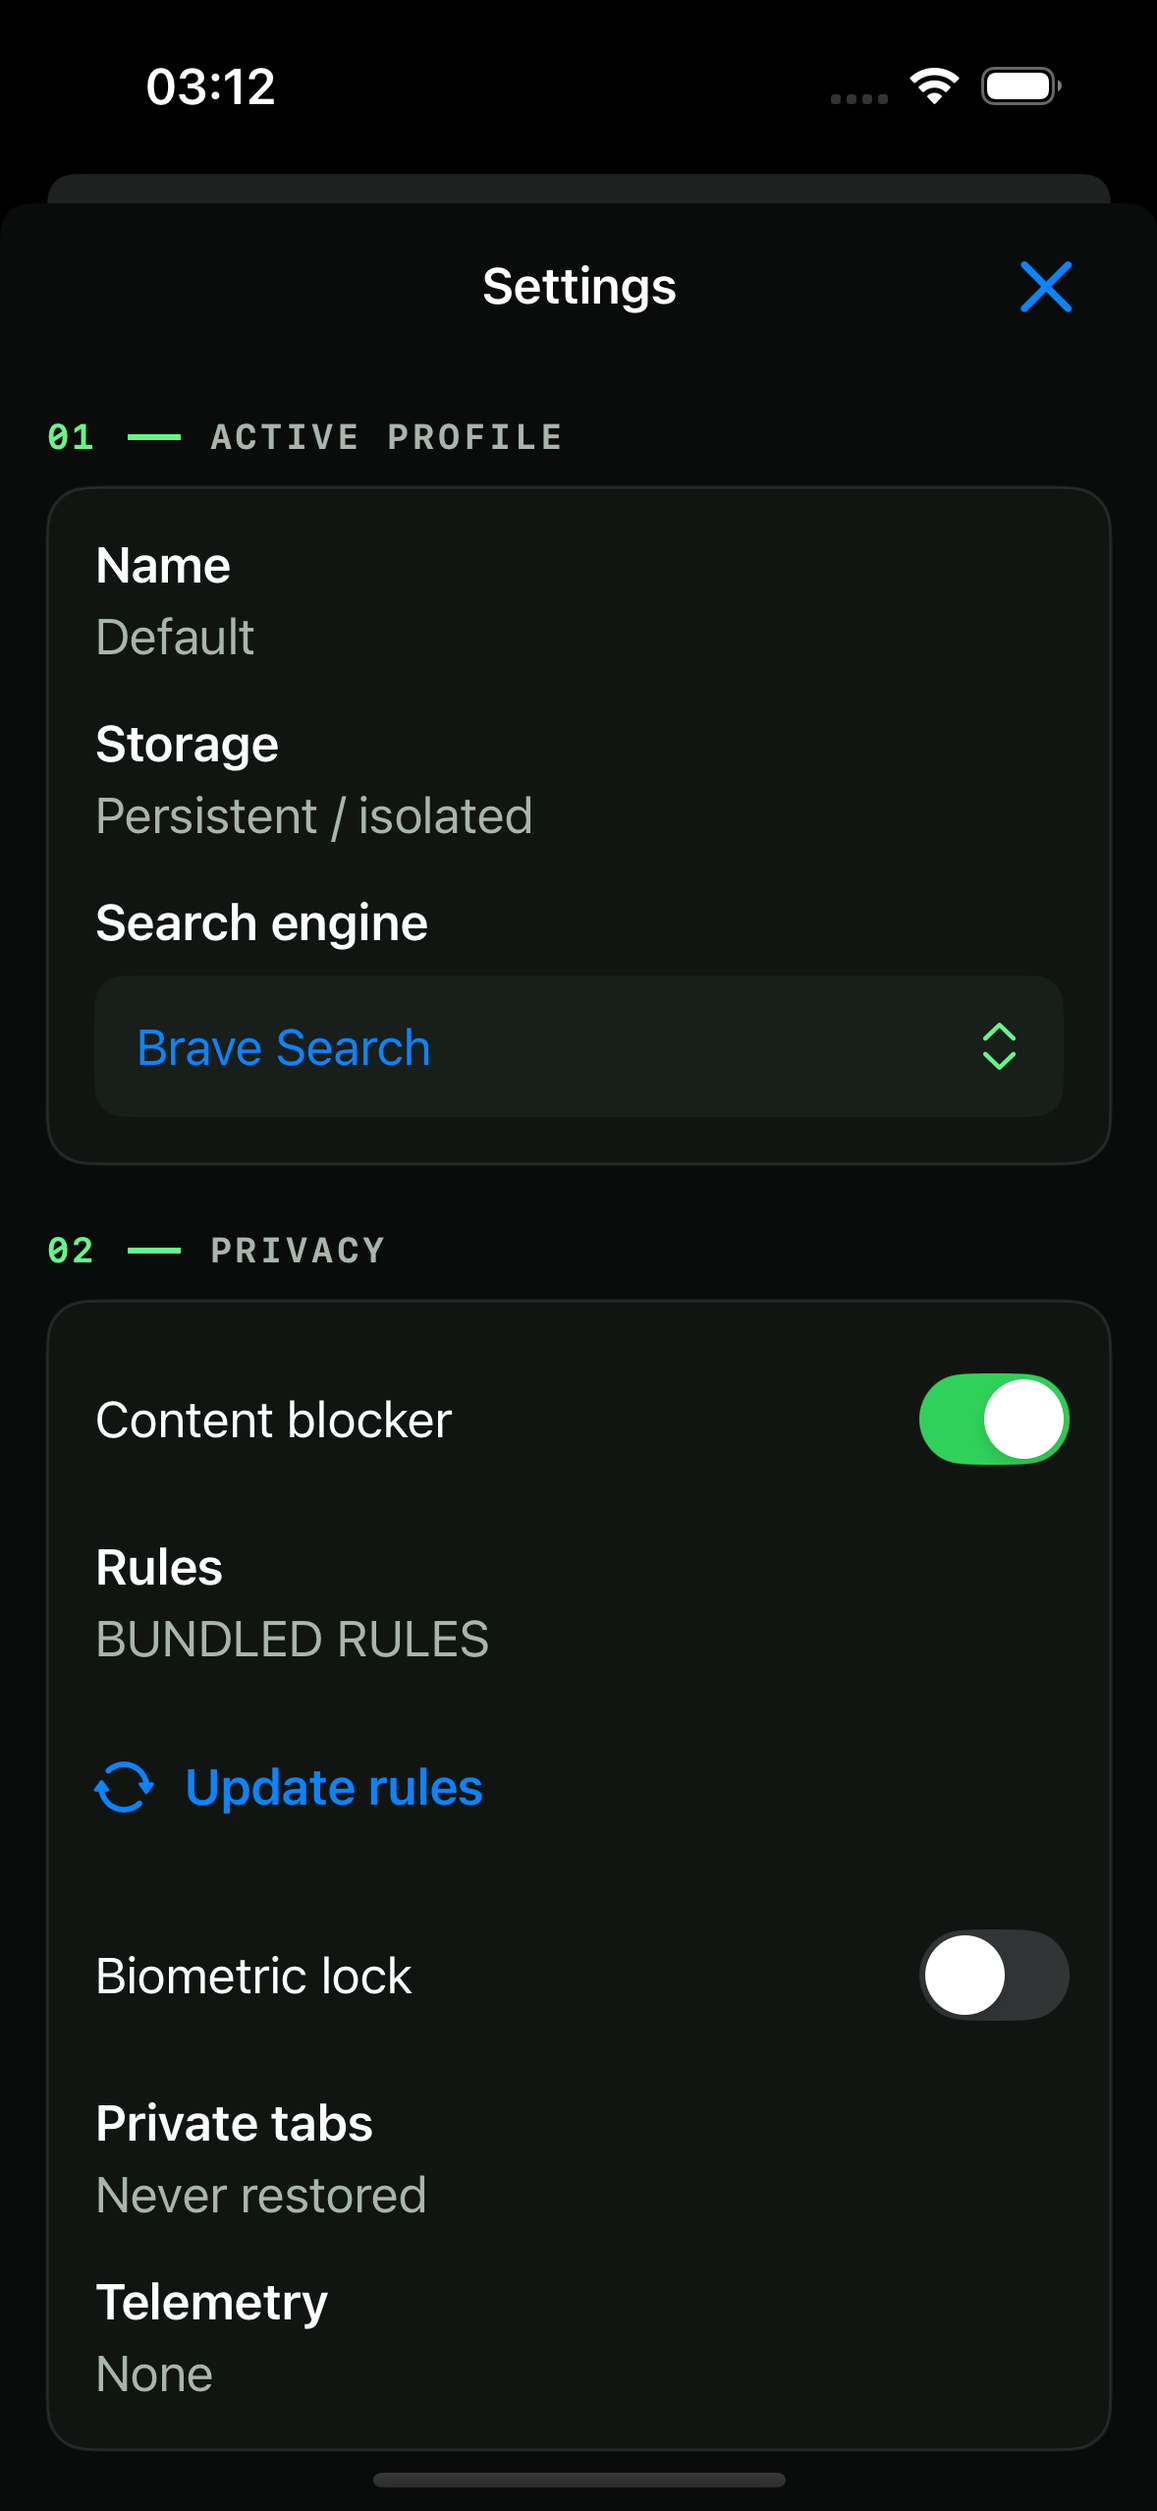
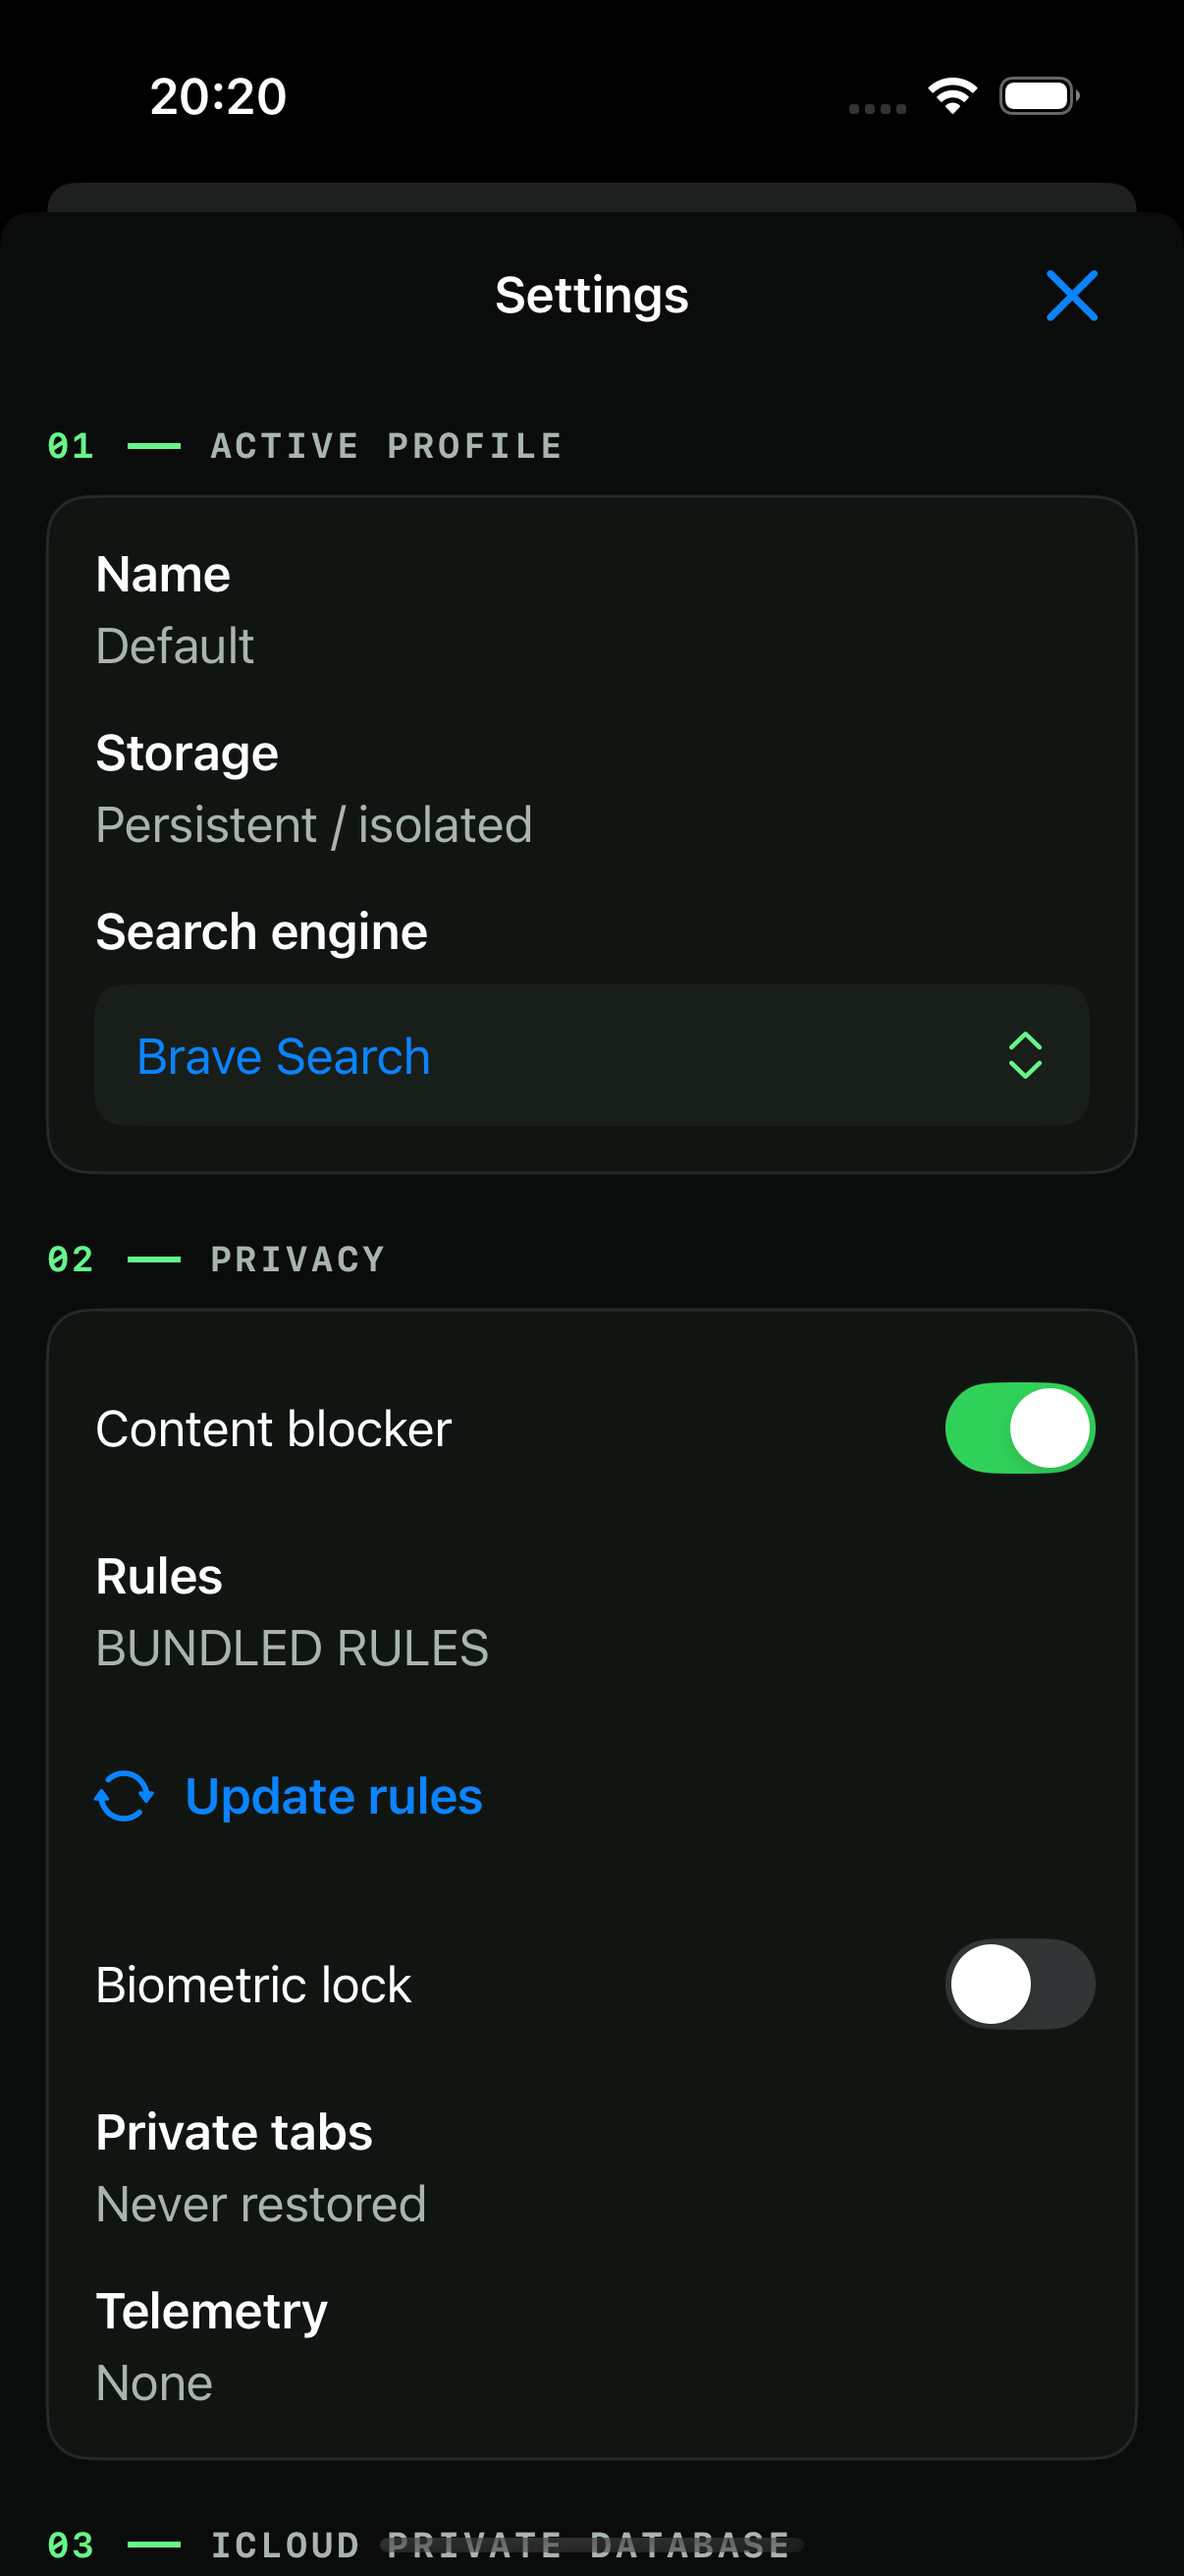
Refresh Simulator media and Pages gallery

diff --git a/docs/index.html b/docs/index.html
@@ -8,12 +8,13 @@
   <link rel="stylesheet" href="fireball.css">
 </head>
 <body>
+  <a class="skip-link" href="#content">Skip to content</a>
   <div class="shell">
     <nav aria-label="Primary">
       <a class="brand" href="index.html">Fireball Browser</a>
       <div class="nav-links"><a href="privacy.html">Privacy</a><a href="support.html">Support</a></div>
     </nav>
-    <main>
+    <main id="content">
       <div class="eyebrow">Native WebKit · iOS and iPadOS 18+</div>
       <h1>Browse in your own spaces.</h1>
       <p class="lede">Fireball is a native browser shell that keeps profiles separate, makes private tabs temporary, and collects no product telemetry.</p>
@@ -22,6 +23,20 @@
         <div class="card"><strong>Private by design</strong><span>Private spaces are nonpersistent and disappear instead of joining session restore.</span></div>
         <div class="card"><strong>Signed blocker data</strong><span>Rule updates are verified and compiled before replacing the last-known-good set.</span></div>
       </div>
+      <section class="showcase" aria-labelledby="showcase-title">
+        <div class="eyebrow">Built and captured on Simulator</div>
+        <h2 id="showcase-title">One shell, two form factors.</h2>
+        <p>The images below come from the opt-in XCTest documentation flow on iOS 18.6, not from hand-authored device mockups.</p>
+        <div class="screens phone-screens">
+          <figure><img loading="lazy" src="assets/fireball-iphone-home.png" alt="Fireball native home on iPhone"><figcaption>Native home</figcaption></figure>
+          <figure><img loading="lazy" src="assets/fireball-iphone-tabs.png" alt="Fireball tab grid on iPhone"><figcaption>Tab grid</figcaption></figure>
+          <figure><img loading="lazy" src="assets/fireball-iphone-settings.png" alt="Fireball privacy settings on iPhone"><figcaption>Profile privacy</figcaption></figure>
+        </div>
+        <div class="screens ipad-screens">
+          <figure><img loading="lazy" src="assets/fireball-ipad-tabs.png" alt="Fireball adaptive tab grid with spaces sidebar on iPad"><figcaption>Adaptive iPad tab grid</figcaption></figure>
+          <figure><img loading="lazy" src="assets/fireball-ipad-settings.png" alt="Fireball settings sheet on iPad"><figcaption>Settings sheet</figcaption></figure>
+        </div>
+      </section>
     </main>
     <footer>Fireball Browser beta information · <a href="privacy.html">Privacy policy</a> · <a href="support.html">Support</a></footer>
   </div>

diff --git a/docs/fireball.css b/docs/fireball.css
@@ -20,6 +20,9 @@ body {
   line-height: 1.65;
 }
 a { color: var(--green); }
+.skip-link { position: fixed; top: 0.75rem; left: 0.75rem; z-index: 10; padding: 0.6rem 0.85rem; border-radius: 8px; background: var(--green); color: var(--background); transform: translateY(-180%); }
+.skip-link:focus { transform: translateY(0); }
+a:focus-visible { outline: 3px solid var(--orange); outline-offset: 4px; }
 .shell { width: min(960px, calc(100% - 2rem)); margin: 0 auto; }
 nav {
   display: flex;
@@ -37,6 +40,7 @@ nav {
 .eyebrow { color: var(--orange); }
 .nav-links { display: flex; gap: 1.25rem; }
 .nav-links a { color: var(--muted); text-decoration: none; }
+.nav-links a:hover { color: var(--ink); }
 main { padding: 6rem 0; }
 h1 { max-width: 13ch; margin: 1rem 0; font-size: clamp(3rem, 9vw, 6.6rem); line-height: 0.94; letter-spacing: -0.065em; }
 h2 { margin-top: 3rem; font-size: 1.55rem; letter-spacing: -0.025em; }
@@ -51,10 +55,19 @@ p, li { max-width: 70ch; color: var(--muted); }
 .callout { margin: 2rem 0; border-left: 3px solid var(--green); }
 .grid { display: grid; grid-template-columns: repeat(3, 1fr); gap: 1rem; margin-top: 3rem; }
 .card strong { display: block; margin-bottom: 0.5rem; color: var(--ink); }
+.showcase { margin-top: 7rem; }
+.showcase h2 { max-width: 14ch; margin: 0.8rem 0 1rem; font-size: clamp(2.4rem, 6vw, 4.6rem); line-height: 0.98; }
+.screens { display: grid; gap: 1rem; margin-top: 2rem; }
+.phone-screens { grid-template-columns: repeat(3, 1fr); }
+.ipad-screens { grid-template-columns: repeat(2, 1fr); }
+figure { margin: 0; padding: 0.75rem; border: 1px solid var(--line); border-radius: 18px; background: #0e1311; }
+figure img { display: block; width: 100%; height: auto; border-radius: 12px; }
+figcaption { padding: 0.8rem 0.25rem 0.2rem; color: var(--muted); font: 700 0.72rem/1 ui-monospace, SFMono-Regular, Menlo, monospace; letter-spacing: 0.08em; text-transform: uppercase; }
 footer { padding: 2rem 0 4rem; border-top: 1px solid var(--line); color: var(--muted); font-size: 0.85rem; }
 code { color: var(--orange); }
 @media (max-width: 720px) {
   main { padding: 3.5rem 0; }
   .grid { grid-template-columns: 1fr; }
+  .phone-screens, .ipad-screens { grid-template-columns: 1fr; }
   .nav-links { gap: 0.75rem; font-size: 0.86rem; }
 }

diff --git a/README.md b/README.md
@@ -18,7 +18,14 @@ Marketing version `0.1.0` · Bundle identifier `com.fireball.browser` · Default
 | --- | --- | --- |
 | ![Fireball home on iPhone](docs/assets/fireball-iphone-home.png) | ![Fireball tab grid on iPhone](docs/assets/fireball-iphone-tabs.png) | ![Fireball settings on iPhone](docs/assets/fireball-iphone-settings.png) |
 
-The screenshots were captured by `testCaptureDocumentationMedia`; the MP4 records that same UI-test flow in Simulator. These files are documentation evidence, not a substitute for physical-device or TestFlight acceptance.
+| iPad home | Adaptive tab grid | iPad settings |
+| --- | --- | --- |
+| ![Fireball home on iPad](docs/assets/fireball-ipad-home.png) | ![Fireball adaptive tab grid on iPad](docs/assets/fireball-ipad-tabs.png) | ![Fireball settings on iPad](docs/assets/fireball-ipad-settings.png) |
+
+The six screenshots were captured by `testCaptureDocumentationMedia` from the
+current app build on iPhone 16 Pro and iPad Pro 11-inch iOS 18.6 Simulators; the
+MP4 records the same UI-test flow separately. These files are documentation
+evidence, not a substitute for physical-device or TestFlight acceptance.
 
 ## What is implemented
 
